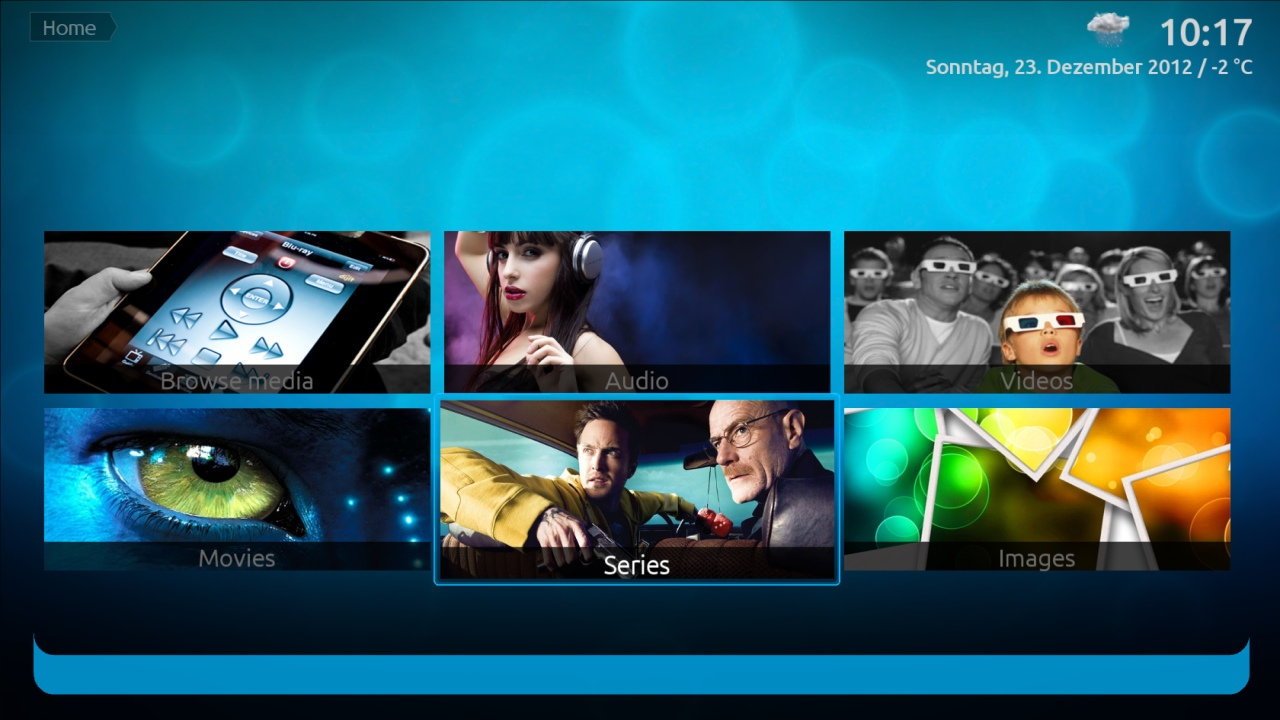
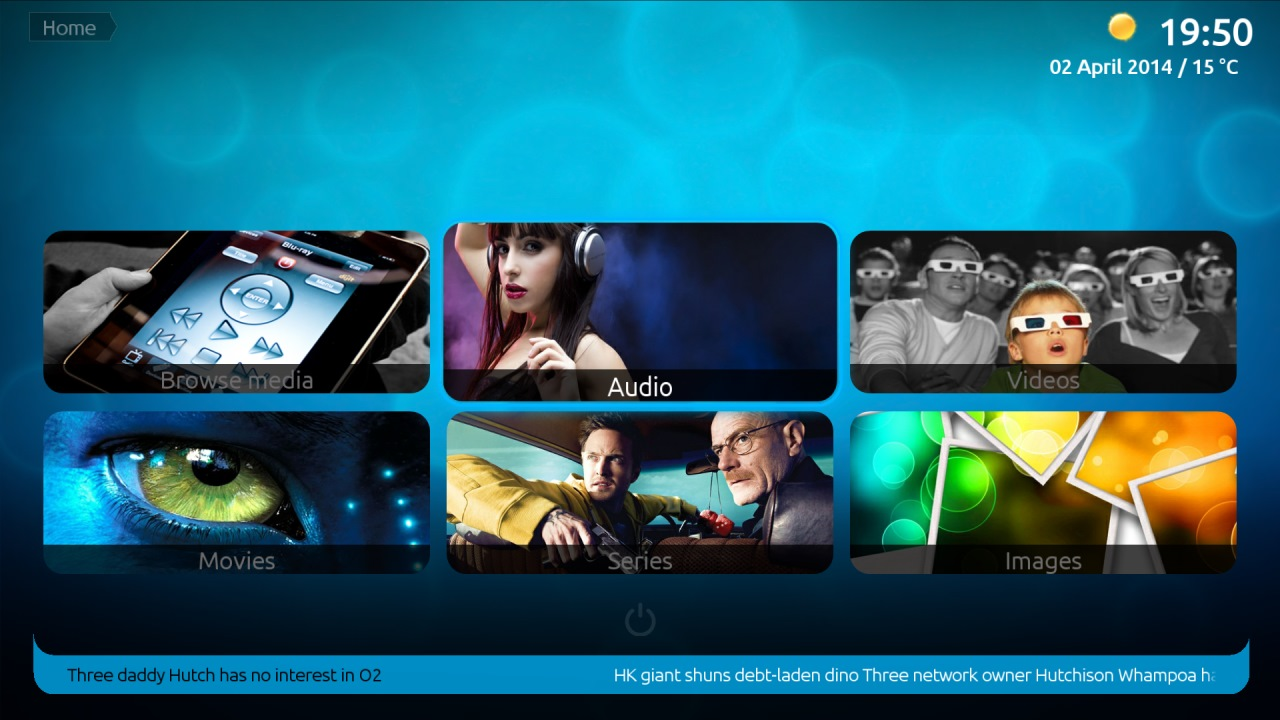
New larger font size themes for Titanium

diff --git a/MediaPortal/Incubator/Titanium/Skin/Titanium/themes/blue-large/styles/Consts.xaml b/MediaPortal/Incubator/Titanium/Skin/Titanium/themes/blue-large/styles/Consts.xaml
@@ -1,0 +1,56 @@
+<?xml version="1.0" encoding="utf-8"?>
+<ResourceDictionary
+    xmlns="www.team-mediaportal.com/2008/mpf/directx"
+    xmlns:x="http://schemas.microsoft.com/winfx/2006/xaml"
+    >
+
+  <!-- General font sizes -->
+  <ResourceWrapper x:Key="HeaderFontSize" Resource="56"/>
+  <ResourceWrapper x:Key="DialogTitleFontSize" Resource="40"/>
+
+  <ResourceWrapper x:Key="DateTimeFontSize" Resource="30"/>
+
+  <ResourceWrapper x:Key="BigFontSize" Resource="40"/>
+  <ResourceWrapper x:Key="SmallFontSize" Resource="30"/>
+  <ResourceWrapper x:Key="SmallerFontSize" Resource="28"/>
+  <ResourceWrapper x:Key="TinyFontSize" Resource="24"/>
+
+  <ResourceWrapper x:Key="OsdTitleFontSize" Resource="46"/>
+
+  <!-- Screen transitions -->
+  <ResourceWrapper x:Key="ScreenTransitionEndTime" Resource="00:00:00.20"/>
+  <ResourceWrapper x:Key="DialogTransitionEndTime" Resource="00:00:00.20"/>
+
+  <ResourceWrapper x:Key="ButtonRadius" Resource="6"/>
+  
+  <ResourceWrapper x:Key="DialogButtonMinWidth" Resource="200"/>
+
+  <ResourceWrapper x:Key="TextBoxBorderThickness" Resource="3"/>
+  <ResourceWrapper x:Key="TextBoxCornerRadius" Resource="2"/>
+
+  <ResourceWrapper x:Key="VirtualKeyboardBorderThickness" Resource="10"/>
+  <ResourceWrapper x:Key="VirtualKeyboardCornerRadius" Resource="10"/>
+
+  <ResourceWrapper x:Key="ContentGroupBoxCornerRadius" Resource="15"/>
+
+  <ResourceWrapper x:Key="DefaultPlayerControlBorderThickness" Resource="1"/>
+  <ResourceWrapper x:Key="DefaultPlayerControlCornerRadius" Resource="2"/>
+  <ResourceWrapper x:Key="OSDPlayControlBorderThickness" Resource="0"/>
+  <ResourceWrapper x:Key="OSDPlayControlCornerRadius" Resource="20"/>
+  <ResourceWrapper x:Key="PlayerControlFontSize" Resource="{ThemeResource SmallerFontSize}"/>
+
+  <ResourceWrapper x:Key="PipBorderThickness" Resource="2"/>
+
+  <ResourceWrapper x:Key="PiPVideoWidth" Resource="320"/>
+  
+  <ResourceWrapper x:Key="DialogBorderCornerRadius" Resource="30"/>
+  
+  <!-- width and margin for small OSD buttons -->
+  <ResourceWrapper x:Key="OSDControlWidth" Resource="20" />
+  <ResourceWrapper x:Key="OSDControlMargin" Resource="8" />
+
+  <!-- Progress bar -->
+  <ResourceWrapper x:Key="ProgressBarRadius" Resource="5"/>
+  <ResourceWrapper x:Key="ProgressBarIndicatorMargin" Resource="1"/>
+
+</ResourceDictionary>

diff --git a/MediaPortal/Incubator/Titanium/Skin/Titanium/themes/default-large/styles/Consts.xaml b/MediaPortal/Incubator/Titanium/Skin/Titanium/themes/default-large/styles/Consts.xaml
@@ -1,0 +1,56 @@
+<?xml version="1.0" encoding="utf-8"?>
+<ResourceDictionary
+    xmlns="www.team-mediaportal.com/2008/mpf/directx"
+    xmlns:x="http://schemas.microsoft.com/winfx/2006/xaml"
+    >
+
+  <!-- General font sizes -->
+  <ResourceWrapper x:Key="HeaderFontSize" Resource="56"/>
+  <ResourceWrapper x:Key="DialogTitleFontSize" Resource="40"/>
+
+  <ResourceWrapper x:Key="DateTimeFontSize" Resource="30"/>
+
+  <ResourceWrapper x:Key="BigFontSize" Resource="40"/>
+  <ResourceWrapper x:Key="SmallFontSize" Resource="30"/>
+  <ResourceWrapper x:Key="SmallerFontSize" Resource="28"/>
+  <ResourceWrapper x:Key="TinyFontSize" Resource="24"/>
+
+  <ResourceWrapper x:Key="OsdTitleFontSize" Resource="46"/>
+
+  <!-- Screen transitions -->
+  <ResourceWrapper x:Key="ScreenTransitionEndTime" Resource="00:00:00.20"/>
+  <ResourceWrapper x:Key="DialogTransitionEndTime" Resource="00:00:00.20"/>
+
+  <ResourceWrapper x:Key="ButtonRadius" Resource="6"/>
+  
+  <ResourceWrapper x:Key="DialogButtonMinWidth" Resource="200"/>
+
+  <ResourceWrapper x:Key="TextBoxBorderThickness" Resource="3"/>
+  <ResourceWrapper x:Key="TextBoxCornerRadius" Resource="2"/>
+
+  <ResourceWrapper x:Key="VirtualKeyboardBorderThickness" Resource="10"/>
+  <ResourceWrapper x:Key="VirtualKeyboardCornerRadius" Resource="10"/>
+
+  <ResourceWrapper x:Key="ContentGroupBoxCornerRadius" Resource="15"/>
+
+  <ResourceWrapper x:Key="DefaultPlayerControlBorderThickness" Resource="1"/>
+  <ResourceWrapper x:Key="DefaultPlayerControlCornerRadius" Resource="2"/>
+  <ResourceWrapper x:Key="OSDPlayControlBorderThickness" Resource="0"/>
+  <ResourceWrapper x:Key="OSDPlayControlCornerRadius" Resource="20"/>
+  <ResourceWrapper x:Key="PlayerControlFontSize" Resource="{ThemeResource SmallerFontSize}"/>
+
+  <ResourceWrapper x:Key="PipBorderThickness" Resource="2"/>
+
+  <ResourceWrapper x:Key="PiPVideoWidth" Resource="320"/>
+  
+  <ResourceWrapper x:Key="DialogBorderCornerRadius" Resource="30"/>
+  
+  <!-- width and margin for small OSD buttons -->
+  <ResourceWrapper x:Key="OSDControlWidth" Resource="20" />
+  <ResourceWrapper x:Key="OSDControlMargin" Resource="8" />
+
+  <!-- Progress bar -->
+  <ResourceWrapper x:Key="ProgressBarRadius" Resource="5"/>
+  <ResourceWrapper x:Key="ProgressBarIndicatorMargin" Resource="1"/>
+
+</ResourceDictionary>

diff --git a/MediaPortal/Incubator/Titanium/Skin/Titanium/themes/blue-large/styles/MediaConsts.xaml b/MediaPortal/Incubator/Titanium/Skin/Titanium/themes/blue-large/styles/MediaConsts.xaml
@@ -1,0 +1,28 @@
+<?xml version="1.0" encoding="utf-8"?>
+<ResourceDictionary
+    xmlns="www.team-mediaportal.com/2008/mpf/directx"
+    xmlns:x="http://schemas.microsoft.com/winfx/2006/xaml"
+    >
+  <ResourceWrapper x:Key="MEDIA_THUMB_WIDTH_S" Resource="100"/>
+  <ResourceWrapper x:Key="MEDIA_THUMB_WIDTH_M" Resource="150"/>
+  <ResourceWrapper x:Key="MEDIA_THUMB_WIDTH_L" Resource="220"/>
+  <ResourceWrapper x:Key="MEDIA_THUMB_WIDTH_CP" Resource="200"/>
+  <ResourceWrapper x:Key="MEDIA_BANNER_WIDTH" Resource="600"/>
+  <ResourceWrapper x:Key="MEDIA_POSTER_WIDTH" Resource="180"/>
+  <ResourceWrapper x:Key="MEDIA_POSTER_CONTAINER_WIDTH" Resource="230"/>
+  
+  <ResourceWrapper x:Key="MEDIA_THUMB_HEIGHT_S" Resource="60"/>
+  <ResourceWrapper x:Key="MEDIA_THUMB_HEIGHT_M" Resource="90"/>
+  <ResourceWrapper x:Key="MEDIA_THUMB_HEIGHT_L" Resource="154"/>
+  <ResourceWrapper x:Key="MEDIA_THUMB_HEIGHT_CP" Resource="200"/>
+  <ResourceWrapper x:Key="MEDIA_BANNER_HEIGHT" Resource="110"/>
+  <ResourceWrapper x:Key="MEDIA_POSTER_HEIGHT" Resource="210"/>
+
+  <ResourceWrapper x:Key="GRIDVIEW_FILTER_WIDTH" Resource="240"/>
+  <ResourceWrapper x:Key="GRIDVIEW_FILTER_HEIGHT" Resource="122"/>
+
+  <ResourceWrapper x:Key="REFLEXION_WIDTH" Resource="130"/>
+  <ResourceWrapper x:Key="REFLEXION_HEIGHT" Resource="300"/>
+  <ResourceWrapper x:Key="COVERVIEW_FILTER_WIDTH" Resource="190"/>
+  <ResourceWrapper x:Key="COVERVIEW_FILTER_HEIGHT" Resource="440"/>
+</ResourceDictionary>

diff --git a/MediaPortal/Incubator/Titanium/Skin/Titanium/themes/default-large/styles/MediaConsts.xaml b/MediaPortal/Incubator/Titanium/Skin/Titanium/themes/default-large/styles/MediaConsts.xaml
@@ -1,0 +1,28 @@
+<?xml version="1.0" encoding="utf-8"?>
+<ResourceDictionary
+    xmlns="www.team-mediaportal.com/2008/mpf/directx"
+    xmlns:x="http://schemas.microsoft.com/winfx/2006/xaml"
+    >
+  <ResourceWrapper x:Key="MEDIA_THUMB_WIDTH_S" Resource="100"/>
+  <ResourceWrapper x:Key="MEDIA_THUMB_WIDTH_M" Resource="150"/>
+  <ResourceWrapper x:Key="MEDIA_THUMB_WIDTH_L" Resource="220"/>
+  <ResourceWrapper x:Key="MEDIA_THUMB_WIDTH_CP" Resource="200"/>
+  <ResourceWrapper x:Key="MEDIA_BANNER_WIDTH" Resource="600"/>
+  <ResourceWrapper x:Key="MEDIA_POSTER_WIDTH" Resource="180"/>
+  <ResourceWrapper x:Key="MEDIA_POSTER_CONTAINER_WIDTH" Resource="230"/>
+  
+  <ResourceWrapper x:Key="MEDIA_THUMB_HEIGHT_S" Resource="60"/>
+  <ResourceWrapper x:Key="MEDIA_THUMB_HEIGHT_M" Resource="90"/>
+  <ResourceWrapper x:Key="MEDIA_THUMB_HEIGHT_L" Resource="154"/>
+  <ResourceWrapper x:Key="MEDIA_THUMB_HEIGHT_CP" Resource="200"/>
+  <ResourceWrapper x:Key="MEDIA_BANNER_HEIGHT" Resource="110"/>
+  <ResourceWrapper x:Key="MEDIA_POSTER_HEIGHT" Resource="210"/>
+
+  <ResourceWrapper x:Key="GRIDVIEW_FILTER_WIDTH" Resource="240"/>
+  <ResourceWrapper x:Key="GRIDVIEW_FILTER_HEIGHT" Resource="122"/>
+
+  <ResourceWrapper x:Key="REFLEXION_WIDTH" Resource="130"/>
+  <ResourceWrapper x:Key="REFLEXION_HEIGHT" Resource="300"/>
+  <ResourceWrapper x:Key="COVERVIEW_FILTER_WIDTH" Resource="190"/>
+  <ResourceWrapper x:Key="COVERVIEW_FILTER_HEIGHT" Resource="440"/>
+</ResourceDictionary>
